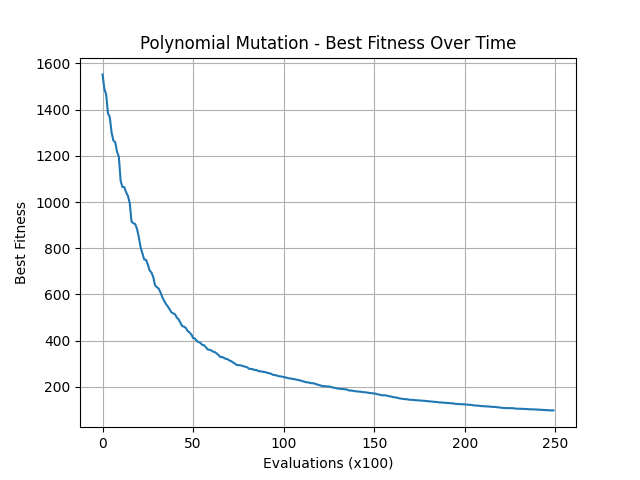
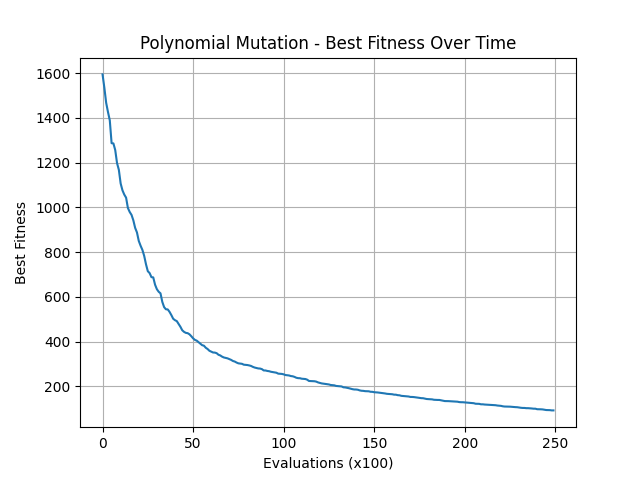
Final version of 4-flag system

diff --git a/topsis_mutation/topsis_mutation.py b/topsis_mutation/topsis_mutation.py
@@ -50,10 +50,6 @@ class TopsisMutation(PolynomialMutation):
             # Inicjalizacja listy przechowującej uśrednionego najlepszego osobnika
             average_best_individual = [0.0] * solution.number_of_variables
 
-            # # Losowe wektory do modyfikacji kąta, jeśli flaga jest aktywna
-            # if self.randomized_angle:
-            #     random_vectors = random_vector_in_angle_range(90, solution.number_of_variables)
-
             # Sumowanie wartości zmiennych topowych osobników
             for individual in top_individuals:
                 for i in range(solution.number_of_variables):
@@ -69,11 +65,10 @@ class TopsisMutation(PolynomialMutation):
             for i in range(solution.number_of_variables):
                 difference = average_best_individual[i] - solution.variables[i]
 
-                # # Dodanie losowości dla kierunku wektora, jeśli flaga jest aktywna
-                # if self.randomized_angle:
-                #     difference += random_vectors[i]
+                # Przyciągamy się do losowego punktu w kwadracie między obecnym osobnikiem a uśrednionym docelowym
                 if self.randomized_point:
                     difference = random_point[i] - solution.variables[i]
+                # Dodanie losowości dla kierunku wektora, jeśli flaga jest aktywna
                 if self.randomized_angle:
                     scale_factor = abs(difference) / 2
                     random_vectors = scaled_random_vector_in_angle_range(90, 1, scale_factor)
@@ -91,10 +86,6 @@ class TopsisMutation(PolynomialMutation):
             # Inicjalizacja listy przechowującej uśrednionego najgorszego osobnika
             average_worst_individual = [0.0] * solution.number_of_variables
 
-            # # Losowe wektory do modyfikacji kąta, jeśli flaga jest aktywna
-            # if self.randomized_angle:
-            #     random_vectors = random_vector_in_angle_range(90, solution.number_of_variables)
-
             # Sumowanie wartości zmiennych najgorszych osobników
             for individual in bottom_individuals:
                 for i in range(solution.number_of_variables):
@@ -111,11 +102,10 @@ class TopsisMutation(PolynomialMutation):
             for i in range(solution.number_of_variables):
                 difference = solution.variables[i] - average_worst_individual[i]
 
-                # # Dodanie losowości dla kierunku wektora, jeśli flaga jest aktywna
-                # if self.randomized_angle:
-                #     difference += random_vectors[i]
+                # Przyciągamy się do losowego punktu w kwadracie między obecnym osobnikiem a uśrednionym docelowym
                 if self.randomized_point:
-                    difference = random_point[i] - solution.variables[i]
+                    difference = solution.variables[i] - random_point[i]
+                # Dodanie losowości dla kierunku wektora, jeśli flaga jest aktywna
                 if self.randomized_angle:
                     scale_factor = abs(difference) / 2
                     random_vectors = scaled_random_vector_in_angle_range(90, 1, scale_factor)
